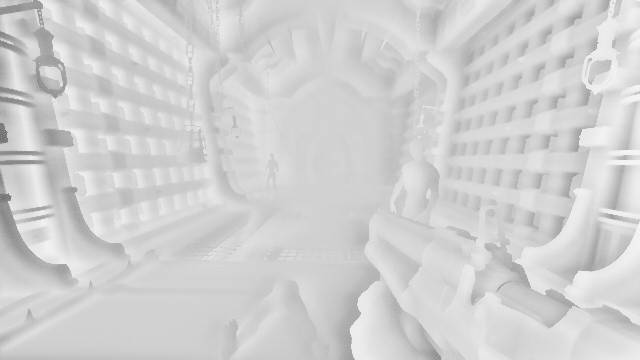
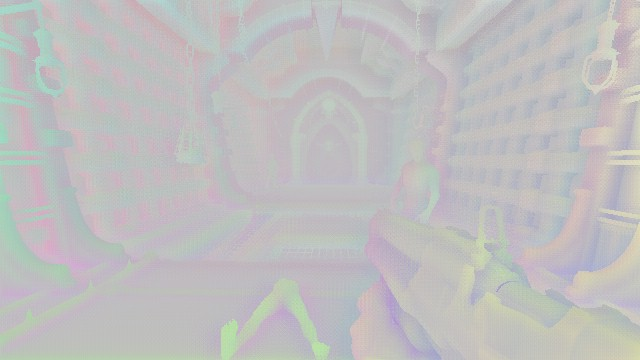
Fixup typo and SSAO

diff --git a/css/main.css b/css/main.css
@@ -1,1 +1,1 @@
-@import url("https://fonts.googleapis.com/css?family=Nunito");.page-link{background-color:#323232;border-color:#323232}body{font-family:'Nunito', sans-serif;padding-bottom:50px;background-size:40px 40px;background-color:#232323;color:#fff}@media print{body{background-color:white;color:black}}hr{border-top:1px solid rgba(255,255,255,0.2)}#navbar,#footer-content{transition:0.3s ease}.bg-dark{background-color:rgba(40,40,40,0.8) !important}.footer{position:fixed;bottom:0;width:100%;align-items:center;justify-content:space-between;display:flex;padding-left:20px;padding-right:20px;z-index:1000}.footer small{color:white;opacity:0.5;display:inline}.navbar-brand{font-size:22px}.navbar a{transition:0.3s ease}.navbar .nav-link{text-transform:uppercase;font-size:16px}.navbar .active a{font-weight:bold;transition:0.3s ease}.navbar ul{font-size:20px}.navbar-brand small{padding-left:20px;display:block;font-size:12px;margin-top:-10px}.blacklink{color:#f0f0f0}.blacklink:visited{color:#f0f0f0}.blacklink:hover{color:#f0f0f0;text-decoration:none}.blacklink:active{color:#f0f0f0}.tech-icon-list{padding-left:0;list-style:none}.tech-icon-list li{display:inline-block}.tech-icon-list img{border-radius:5px;box-shadow:-3px -3px 2px #141414}.tech-icon-list img:hover{-webkit-backface-visibility:hidden;backface-visibility:hidden;-webkit-transform:translateZ(0) scale(0.95);-moz-transform:scale(0.95);-ms-transform:scale(0.95);-o-transform:translateZ(0) scale(0.95);transform:translateZ(0) scale(0.95)}.project-header{text-transform:uppercase;letter-spacing:3px;font-weight:bold;font-size:40px;margin-top:30px}.project-container{padding-top:50px}.project-container .row{padding-top:10px;padding-bottom:10px}.project-info{background-color:rgba(255,255,255,0.01);padding:10px}.project-video{box-shadow:5px 10px 20px 15px rgba(255,255,255,0.01);margin-bottom:20px}.project-images{padding-top:10px}.project-images img{padding-top:5px;padding-bottom:5px;width:100%;height:auto;border-radius:10px}.project-images img:hover{-webkit-backface-visibility:hidden;backface-visibility:hidden;-webkit-transform:translateZ(0) scale(1.05);-moz-transform:scale(1.05);-ms-transform:scale(1.05);-o-transform:translateZ(0) scale(1.05);transform:translateZ(0) scale(1.05)}.notfound{background-color:#f0f0f0}.aboutme-background{background-image:url("../images/background.jpg");background-attachment:fixed;background-position:center;background-repeat:no-repeat;background-size:cover}.aboutme-background *{color:white}.aboutme-background img{height:auto;max-height:200px}.aboutme-description{font-size:18px}.aboutme-row{padding-top:8px;padding-bottom:8px;padding-left:10px;padding-right:10px}.aboutme-section:nth-child(odd){background-color:rgba(255,255,255,0.01)}.list-group-item{background-color:inherit}.projects-page-container .project-cover{transition:.5s ease}.projects-page-container:hover .project-cover{opacity:0.75;transition:.5s ease}.projects-page-container:hover .project-cover:hover{opacity:1.0;transition:.5s ease}.video-overlay{position:relative;height:auto}.video-overlay img{width:100%}.video-overlay:hover video{opacity:1}.video-overlay video{position:absolute;left:0px;top:0px;width:100%;height:100%;opacity:0;transition:.5s ease}.imgswap{position:relative}.imgswap img:last-child{position:absolute;left:0px;top:0px;transition:.5s ease-in;opacity:0}.imgswap.hover img:first-child{transition:.5s ease-in;opacity:0}.imgswap.hover img:last-child{transition:.5s ease-in;opacity:1}.project-row{padding-top:5px;padding-bottom:5px;padding-left:5px;padding-right:5px}.project-row:nth-child(even){background-color:rgba(0,0,0,0.02)}.project-row:nth-child(odd){background-color:rgba(0,0,0,0.05)}.project-cover{position:relative;font-size:10px}.project-cover:hover .project-cover-info{outline:1px solid white;outline-offset:-4px;transition:0.2s ease-in-out}.project-cover .project-cover-info{position:absolute;left:0px;top:0px;width:100%;height:100%;font-size:100%;padding:0px;pointer-events:none;color:white}.project-cover .project-cover-info *{padding:1%;margin:5px;display:table}.project-cover .project-cover-info p{background-color:black;opacity:0.8;line-height:100%}.project-cover .project-title{font-size:400%}.project-cover .project-subtitle{font-size:200%}.project-cover .project-date{position:absolute;bottom:0px;right:0px;text-align:right;font-size:200%}.project-cover .project-image{position:absolute;left:0px;bottom:0px;max-height:30%;max-width:40%;opacity:1}@media only screen and (max-width: 768px){.project-cover{font-size:7px}}@media only screen and (max-width: 400px){.project-cover{font-size:5px}.project-date{display:none}}.skills-container .company-icon{width:50px;height:50px;border-radius:10px}.skills-container p{margin-top:5px;margin-bottom:5px}@media all and (max-width: 1000px){.carousel .carousel-caption .btn{display:none}}@media only screen and (max-width: 768px){.footer *{font-size:60%}}.btn{border:0 none;letter-spacing:1px;text-transform:uppercase;color:#fff}.btn.sharp{border-radius:0}.btn:hover{color:white}.btn:focus,.btn:active:focus,.btn.active:focus{outline:0 none}blockquote{background:#f9f9f9;border-left:10px solid #ccc;margin:1.5em 10px;padding:0.5em 10px;quotes:"“" "”" "‘" "’"}blockquote p{display:inline}table{margin-bottom:2em;width:100%}th{border-bottom:2px solid #ccc;font-weight:bold;text-align:left}td{border-bottom:1px solid #ddd}caption,th,td{padding:4px 10px 4px 0}caption{background:#f1f1f1;padding:10px 0;margin-bottom:1em}tr,td,th{vertical-align:middle}table .last{padding-right:0}#table-of-contents{display:block;font-size:16px}#table-of-contents ul{padding-left:20px;list-style-type:disc}#table-of-contents .toc-h1{font-weight:700}#table-of-contents .toc-h2{font-weight:500}#table-of-contents .current{font-weight:850;background:rgba(0,0,0,0.3);border-radius:.2em;margin:2px;border-color:rgba(255,255,255,0.01)}#table-of-contents .current::before{content:'> '}.highlight table td{padding:5px}.highlight table pre{margin:0}.highlight .cm{color:#999988;font-style:italic}.highlight .cp{color:#999999;font-weight:bold}.highlight .c1{color:#999988;font-style:italic}.highlight .cs{color:#999999;font-weight:bold;font-style:italic}.highlight .c,.highlight .cd{color:#999988;font-style:italic}.highlight .err{color:#a61717;background-color:#e3d2d2}.highlight .gd{color:#000000;background-color:#ffdddd}.highlight .ge{color:#000000;font-style:italic}.highlight .gr{color:#aa0000}.highlight .gh{color:#999999}.highlight .gi{color:#000000;background-color:#ddffdd}.highlight .go{color:#888888}.highlight .gp{color:#555555}.highlight .gs{font-weight:bold}.highlight .gu{color:#aaaaaa}.highlight .gt{color:#aa0000}.highlight .kc{color:#000000;font-weight:bold}.highlight .kd{color:#000000;font-weight:bold}.highlight .kn{color:#000000;font-weight:bold}.highlight .kp{color:#000000;font-weight:bold}.highlight .kr{color:#000000;font-weight:bold}.highlight .kt{color:#445588;font-weight:bold}.highlight .k,.highlight .kv{color:#000000;font-weight:bold}.highlight .mf{color:#009999}.highlight .mh{color:#009999}.highlight .il{color:#009999}.highlight .mi{color:#009999}.highlight .mo{color:#009999}.highlight .m,.highlight .mb,.highlight .mx{color:#009999}.highlight .sb{color:#d14}.highlight .sc{color:#d14}.highlight .sd{color:#d14}.highlight .s2{color:#d14}.highlight .se{color:#d14}.highlight .sh{color:#d14}.highlight .si{color:#d14}.highlight .sx{color:#d14}.highlight .sr{color:#009926}.highlight .s1{color:#d14}.highlight .ss{color:#990073}.highlight .s{color:#d14}.highlight .na{color:#008080}.highlight .bp{color:#999999}.highlight .nb{color:#0086B3}.highlight .nc{color:#445588;font-weight:bold}.highlight .no{color:#008080}.highlight .nd{color:#3c5d5d;font-weight:bold}.highlight .ni{color:#800080}.highlight .ne{color:#990000;font-weight:bold}.highlight .nf{color:#990000;font-weight:bold}.highlight .nl{color:#990000;font-weight:bold}.highlight .nn{color:#555555}.highlight .nt{color:#000080}.highlight .vc{color:#008080}.highlight .vg{color:#008080}.highlight .vi{color:#008080}.highlight .nv{color:#008080}.highlight .ow{color:#000000;font-weight:bold}.highlight .o{color:#000000;font-weight:bold}.highlight .w{color:#bbbbbb}.highlight{background-color:#eaeff3}.gist .blob-wrapper.data{max-height:500px;overflow:auto}.code-block{max-height:500px;overflow-y:scroll;word-wrap:break-word}
+@import url("https://fonts.googleapis.com/css?family=Nunito");.page-link{background-color:#323232;border-color:#323232}body{font-family:'Nunito', sans-serif;padding-bottom:50px;background-size:40px 40px;background-color:#232323;color:#fff}@media print{body{background-color:white;color:black}}hr{border-top:1px solid rgba(255,255,255,0.2)}#navbar,#footer-content{transition:0.3s ease}.bg-dark{background-color:rgba(40,40,40,0.8) !important}.footer{position:fixed;bottom:0;width:100%;align-items:center;justify-content:space-between;display:flex;padding-left:20px;padding-right:20px;z-index:1000}.footer small{color:white;opacity:0.5;display:inline}.navbar-brand{font-size:22px}.navbar a{transition:0.3s ease}.navbar .nav-link{text-transform:uppercase;font-size:16px}.navbar .active a{font-weight:bold;transition:0.3s ease}.navbar ul{font-size:20px}.navbar-brand small{padding-left:20px;display:block;font-size:12px;margin-top:-10px}.blacklink{color:#f0f0f0}.blacklink:visited{color:#f0f0f0}.blacklink:hover{color:#f0f0f0;text-decoration:none}.blacklink:active{color:#f0f0f0}.tech-icon-list{padding-left:0;list-style:none}.tech-icon-list li{display:inline-block}.tech-icon-list img{border-radius:5px;box-shadow:-3px -3px 2px #141414}.tech-icon-list img:hover{-webkit-backface-visibility:hidden;backface-visibility:hidden;-webkit-transform:translateZ(0) scale(0.95);-moz-transform:scale(0.95);-ms-transform:scale(0.95);-o-transform:translateZ(0) scale(0.95);transform:translateZ(0) scale(0.95)}.project-header{text-transform:uppercase;letter-spacing:3px;font-weight:bold;font-size:40px;margin-top:30px}.project-container{padding-top:50px}.project-container .row{padding-top:10px;padding-bottom:10px}.project-info{background-color:rgba(255,255,255,0.01);padding:10px}.project-video{box-shadow:5px 10px 20px 15px rgba(255,255,255,0.01);margin-bottom:20px}.project-images{padding-top:10px}.project-images img{padding-top:5px;padding-bottom:5px;width:100%;height:auto;border-radius:10px}.project-images img:hover{-webkit-backface-visibility:hidden;backface-visibility:hidden;-webkit-transform:translateZ(0) scale(1.05);-moz-transform:scale(1.05);-ms-transform:scale(1.05);-o-transform:translateZ(0) scale(1.05);transform:translateZ(0) scale(1.05)}.notfound{background-color:#f0f0f0}.aboutme-background{background-image:url("../images/background.jpg");background-attachment:fixed;background-position:center;background-repeat:no-repeat;background-size:cover}.aboutme-background *{color:white}.aboutme-background img{height:auto;max-height:200px}.aboutme-description{font-size:18px}.aboutme-row{padding-top:8px;padding-bottom:8px;padding-left:10px;padding-right:10px}.aboutme-section:nth-child(odd){background-color:rgba(255,255,255,0.01)}.list-group-item{background-color:inherit}.projects-page-container .project-cover{transition:.5s ease}.projects-page-container:hover .project-cover{opacity:0.75;transition:.5s ease}.projects-page-container:hover .project-cover:hover{opacity:1.0;transition:.5s ease}.video-overlay{position:relative;height:auto}.video-overlay img{width:100%}.video-overlay:hover video{opacity:1}.video-overlay video{position:absolute;left:0px;top:0px;width:100%;height:100%;opacity:0;transition:.5s ease}.imgswap{position:relative}.imgswap img:last-child{position:absolute;left:0px;top:0px;transition:.5s ease-in;opacity:0}.imgswap.hover img:first-child{transition:.5s ease-in;opacity:0}.imgswap.hover img:last-child{transition:.5s ease-in;opacity:1}.project-row{padding-top:5px;padding-bottom:5px;padding-left:5px;padding-right:5px}.project-row:nth-child(even){background-color:rgba(0,0,0,0.02)}.project-row:nth-child(odd){background-color:rgba(0,0,0,0.05)}.project-cover{position:relative;font-size:10px}.project-cover:hover .project-cover-info{outline:1px solid white;outline-offset:-4px;transition:0.2s ease-in-out}.project-cover .project-cover-info{position:absolute;left:0px;top:0px;width:100%;height:100%;font-size:100%;padding:0px;pointer-events:none;color:white}.project-cover .project-cover-info *{padding:1%;margin:5px;display:table}.project-cover .project-cover-info p{background-color:black;opacity:0.8;line-height:100%}.project-cover .project-title{font-size:400%}.project-cover .project-subtitle{font-size:200%}.project-cover .project-date{position:absolute;bottom:0px;right:0px;text-align:right;font-size:200%}.project-cover .project-image{position:absolute;left:0px;bottom:0px;max-height:30%;max-width:40%;opacity:1}@media only screen and (max-width: 768px){.project-cover{font-size:7px}}@media only screen and (max-width: 400px){.project-cover{font-size:5px}.project-date{display:none}}.skills-container .company-icon{width:50px;height:50px;border-radius:10px}.skills-container p{margin-top:5px;margin-bottom:5px}@media all and (max-width: 1000px){.carousel .carousel-caption .btn{display:none}}@media only screen and (max-width: 768px){.footer *{font-size:60%}}.btn{border:0 none;letter-spacing:1px;text-transform:uppercase;color:#fff}.btn.sharp{border-radius:0}.btn:hover{color:white}.btn:focus,.btn:active:focus,.btn.active:focus{outline:0 none}blockquote{background:#f9f9f9;border-left:10px solid #ccc;margin:1.5em 10px;padding:0.5em 10px;quotes:"“" "”" "‘" "’"}blockquote p{display:inline}table{margin-bottom:2em;width:100%}th{border-bottom:2px solid #ccc;font-weight:bold;text-align:left}td{border-bottom:1px solid #ddd}caption,th,td{padding:4px 10px 4px 0}caption{background:#f1f1f1;padding:10px 0;margin-bottom:1em}tr,td,th{vertical-align:middle}table .last{padding-right:0}#table-of-contents{display:block;font-size:16px}#table-of-contents ul{padding-left:20px;list-style-type:disc}#table-of-contents .toc-h1{font-weight:700}#table-of-contents .toc-h2{font-weight:500}#table-of-contents .current{font-weight:850;background:rgba(0,0,0,0.3);border-radius:.2em;margin:2px;border-color:rgba(255,255,255,0.01)}#table-of-contents .current::before{content:'> '}.highlight table td{padding:5px}.highlight table pre{margin:0}.highlight .c,.highlight .ch,.highlight .cd,.highlight .cpf{color:#5e5d83;font-style:italic}.highlight .cm{color:#5e5d83;font-style:italic}.highlight .c1{color:#5e5d83;font-style:italic}.highlight .cp{color:#465457;font-weight:bold}.highlight .cs{color:#465457;font-weight:bold;font-style:italic}.highlight .err{color:#f8f8f2;background-color:#403d3d}.highlight .gi{color:#a6e22e}.highlight .gd{color:#f92672}.highlight .ge{color:#1b1d1e;font-style:italic}.highlight .gr{color:#f92672}.highlight .gt{color:#f92672}.highlight .gh{color:#403d3d}.highlight .go{color:#403d3d}.highlight .gp{color:#66d9ef}.highlight .gs{font-weight:bold}.highlight .gu{color:#465457}.highlight .k,.highlight .kv{color:#66d9ef;font-weight:bold}.highlight .kc{color:#66d9ef;font-weight:bold}.highlight .kd{color:#66d9ef;font-weight:bold}.highlight .kp{color:#66d9ef;font-weight:bold}.highlight .kr{color:#66d9ef;font-weight:bold}.highlight .kt{color:#66d9ef;font-weight:bold}.highlight .kn{color:#f92672;font-weight:bold}.highlight .ow{color:#f92672;font-weight:bold}.highlight .o{color:#f92672;font-weight:bold}.highlight .mf{color:#af87ff}.highlight .mh{color:#af87ff}.highlight .il{color:#af87ff}.highlight .mi{color:#af87ff}.highlight .mo{color:#af87ff}.highlight .m,.highlight .mb,.highlight .mx{color:#af87ff}.highlight .se{color:#af87ff}.highlight .sb{color:#d7d787}.highlight .sc{color:#d7d787}.highlight .sd{color:#d7d787}.highlight .s2{color:#d7d787}.highlight .sh{color:#d7d787}.highlight .si{color:#d7d787}.highlight .sx{color:#d7d787}.highlight .sr{color:#d7d787}.highlight .s1{color:#d7d787}.highlight .ss{color:#d7d787}.highlight .s,.highlight .sa,.highlight .dl{color:#d7d787}.highlight .na{color:#a6e22e}.highlight .nc{color:#a6e22e;font-weight:bold}.highlight .nd{color:#a6e22e;font-weight:bold}.highlight .ne{color:#a6e22e;font-weight:bold}.highlight .nf,.highlight .fm{color:#a6e22e;font-weight:bold}.highlight .no{color:#66d9ef}.highlight .bp{color:#f8f8f2}.highlight .nb{color:#f8f8f2}.highlight .ni{color:#f8f8f2}.highlight .nn{color:#f8f8f2}.highlight .vc{color:#f8f8f2}.highlight .vg{color:#f8f8f2}.highlight .vi{color:#f8f8f2}.highlight .nv,.highlight .vm{color:#f8f8f2}.highlight .w{color:#f8f8f2}.highlight .nl{color:#f8f8f2;font-weight:bold}.highlight .nt{color:#f92672}.highlight{color:#f8f8f2;background-color:#1b1d1e}.gist .blob-wrapper.data{max-height:500px;overflow:auto}.code-block{max-height:500px;overflow-y:scroll;word-wrap:break-word}

diff --git a/blog/programming/graphics/DoomEternalStudy.html b/blog/programming/graphics/DoomEternalStudy.html
@@ -173,7 +173,7 @@
 
 <p>Next up is shadow rendering. There doesn’t seem to be any large changes in how shadow maps are approached in id Tech 7 compared to its predecessor.</p>
 
-<p>As seen below, shadows get rendered in a large 4096x8096px 24-bit depth texture which may vary across quality levels. The texture is persistent across frames and as described in “Devil is in the Details” at Siggraph 2016, the static geometry in the shadow map is cached to save having to redraw the shadow maps each frame. The technique is fairly simple: as long as nothing in the view of the light moves, there is no need to update the shadows. If a dynamic object in the frustum moves, a ‘cached’ shadow map is copied into the actual shadow map and the dynamic geometry is re-drawn on top. This cached shadow map is the same shadow map but only with static geometry because you can make the assumption that these will never change. This saves having to draw the entire scene in the frustum every time it needs to update. Of course, when the light moves, the entire scene has to be redrawn from scratch.</p>
+<p>As seen below, shadows get rendered in a large 4096x8196px 24-bit depth texture which may vary across quality levels. The texture is persistent across frames and as described in “Devil is in the Details” at Siggraph 2016, the static geometry in the shadow map is cached to save having to redraw the shadow maps each frame. The technique is fairly simple: as long as nothing in the view of the light moves, there is no need to update the shadows. If a dynamic object in the frustum moves, a ‘cached’ shadow map is copied into the actual shadow map and the dynamic geometry is re-drawn on top. This cached shadow map is the same shadow map but only with static geometry because you can make the assumption that these will never change. This saves having to draw the entire scene in the frustum every time it needs to update. Of course, when the light moves, the entire scene has to be redrawn from scratch.</p>
 
 <p>When sampling the shadow map during lighting, a 3x3 PCF sampling approach is used to smoothen the shadow edges. For the sun light, <strong>cascaded shadow maps</strong> are used to distribute the quality better as it covers such a large portion of the environment.</p>
 
@@ -270,6 +270,8 @@
 <p>Ambient occlusion is calculated in half resolution in a fairly standard way. 16 random rays are shot from each pixel’s position in the hemisphere. Using the depth buffer, the rays that intersect with geometry are determined. The more of these rays hitting geometry, the more occlusion.</p>
 
 <p>Because the effect is computed in half resolution, the result is rather noisy. A bilateral blur is applied using the depth buffer to improve quality. Ambient occlusion is usually rather low frequency so it’s not that noticeable that it’s blurry.</p>
+
+<p>The occlusion technique used is called “Screen Space Directional Occlusion” which is nicely <a href="https://kayru.org/articles/dssdo/">described by Yuriy O’Donnell</a></p>
 
 <p><img src="/images/blog/010_doom_eternal_study/image9.jpeg" alt="" class="img-fluid img-thumbnail w-100" /></p>
 
